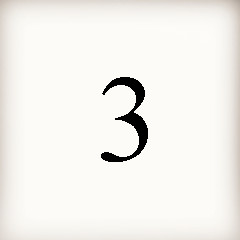
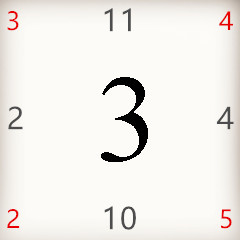
原最终只输出消隐面，此版输出点线面；图片对点和线也编号

diff --git a/FaceBlanking.py b/FaceBlanking.py
@@ -68,7 +68,7 @@ def TrangleArea(mPoint1,mPoint2,mPoint3):
     return dArea
 
 #mine
-class FaceBlankingBox0:
+class FaceBlankingBox:
     def __init__(self,center=[0,0,0],sideLen=2):
         self.center=center
         self.sideLen=sideLen
@@ -81,6 +81,18 @@ class FaceBlankingBox0:
         self.listVertexInitialCoor=[[-1,1,1],[-1,-1,1],[1,-1,1],[1,1,1],[1,1,-1],[1,-1,-1],[-1,-1,-1],[-1,1,-1]]
         # 立方体每个面的顶点序号 前方面的点序号1234 后方面的点序号5678
         # 面的序号：前0后1左2右3上4下5
+        self.listEdgeVertex=[[0, 1], \
+                             [1, 2], \
+                             [2, 3], \
+                             [3, 0], \
+                             [4, 5], \
+                             [5, 6],\
+                             [6, 7],\
+                             [7, 4],\
+                             [0, 7],\
+                             [1, 6],\
+                             [2, 5],\
+                             [3, 4]]
         self.listFaceVertex=[[0, 1, 2, 3], \
                              [4, 5, 6, 7], \
                              [7, 6, 1, 0], \
@@ -130,6 +142,10 @@ class FaceBlankingBox0:
         self.UpdateVertexCoor()
 
         listHidenVertex = []# 被隐藏的点
+        listHidenEdges = []# 被隐藏的线
+        listHidenFaces = []# 被隐藏的面
+
+        #点
         for i in range(len(self.listVertexCoor)):#遍历每个顶点坐标
             for j in range (len(self.listFaceVertex)):#遍历每个面
                 if i in self.listFaceVertex[j]:
@@ -137,18 +153,24 @@ class FaceBlankingBox0:
                 if self.CheckLinePlaneIntersect(i,j):
                     listHidenVertex.append(i)
 
+        #线
+        listHidenEdges_Multi=[]
+        for item in listHidenVertex:
+            listHidenEdges_Multi.append(self.GetVertexNeighborEdges(item))
+        nplistHidenEdges_Multi=np.array(listHidenEdges_Multi)
+        nplistHidenEdges=nplistHidenEdges_Multi.reshape(1,-1)
+        listHidenEdges=np.unique(nplistHidenEdges[0])
 
-
-        #收集隐藏顶点对应的面，均是隐藏面
+        #面
         listHidenFaces_Multi=[]
         for item in listHidenVertex:
             listHidenFaces_Multi.append(self.GetVertexNeighborFaces(item))
-
         nplistHidenFaces_Multi=np.array(listHidenFaces_Multi)
         nplistHidenFaces=nplistHidenFaces_Multi.reshape(1,-1)
         listHidenFaces=np.unique(nplistHidenFaces[0])
+
         #print(listHidenFaces)
-        return listHidenFaces
+        return listHidenVertex , listHidenEdges , listHidenFaces
 
     #检查顶点是否被面所遮挡
     def CheckLinePlaneIntersect(self,iVertexIndex,iFaceIndex):
@@ -182,18 +204,25 @@ class FaceBlankingBox0:
             return True
         return False
 
-    #根据顶点Index获取相邻的3个面index
+    #根据顶点Index获取相邻的面index
     def GetVertexNeighborFaces(self, vertexIndex):
         listNeighborFaces=[]
         for eachFaceIndex in range (len(self.listFaceVertex)):
             if vertexIndex in self.listFaceVertex[eachFaceIndex]:
                 listNeighborFaces.append(eachFaceIndex)
         return listNeighborFaces
+    #根据顶点Index获取相邻的边线index
+    def GetVertexNeighborEdges(self, vertexIndex):
+        listNeighborEdges=[]
+        for eachEdgeIndex in range (len(self.listEdgeVertex)):
+            if vertexIndex in self.listEdgeVertex[eachEdgeIndex]:
+                listNeighborEdges.append(eachEdgeIndex)
+        return listNeighborEdges
 
 
 
 #Robert methed
-class FaceBlankingBox:
+class FaceBlankingBox0:
     def __init__(self,center=[0,0,0],sideLen=2):
         self.center=center
         self.sideLen=sideLen

diff --git a/BlankingTest.py b/BlankingTest.py
@@ -118,8 +118,8 @@ class BlankingVerification:
 
         timePoint3=time.perf_counter()
         self.mathBox.SetRotation(self._RotateX,self._RotateY,self._RotateZ)
-        listHidenFace=self.mathBox.GetHideFaces()
-        #print(listHidenFace)
+        listHidenVertex, listHidenEdges, listHidenFaces=self.mathBox.GetHideFaces()
+        #print(listHidenFaces)
         timePoint4=time.perf_counter()
         print ("mathBox:", "%.2f" % ((timePoint4-timePoint3)*1000), "ms")
 
@@ -130,14 +130,35 @@ class BlankingVerification:
         #  GLUT_BITMAP_HELVETICA_12, and GLUT_BITMAP_HELVETICA_18.
         font_style = GLUT_BITMAP_TIMES_ROMAN_24
         glColor3f(0.0, 1.0, 0.0)
-        info="Current back faces: "
-        for i in range (len(listHidenFace)):
-            if i==0:
-                info += str(listHidenFace[i])
-            else:
-                info += "," + str(listHidenFace[i])
 
+        info =""
+        info+="Current back Vertexes: "
+        for i in range (len(listHidenVertex)):
+            if i==0:
+                info += str(listHidenVertex[i])
+            else:
+                info += "," + str(listHidenVertex[i])
         glRasterPos2i(-3, 2)
+        for i in info:
+            glutBitmapCharacter(font_style, ord(i))
+
+        info="Current back Edges: "
+        for i in range (len(listHidenEdges)):
+            if i==0:
+                info += str(listHidenEdges[i])
+            else:
+                info += "," + str(listHidenEdges[i])
+        glRasterPos2i(-3, 1)
+        for i in info:
+            glutBitmapCharacter(font_style, ord(i))
+
+        info="Current back Faces: "
+        for i in range (len(listHidenFaces)):
+            if i==0:
+                info += str(listHidenFaces[i])
+            else:
+                info += "," + str(listHidenFaces[i])
+        glRasterPos2i(-3, 0)
         for i in info:
             glutBitmapCharacter(font_style, ord(i))
 
